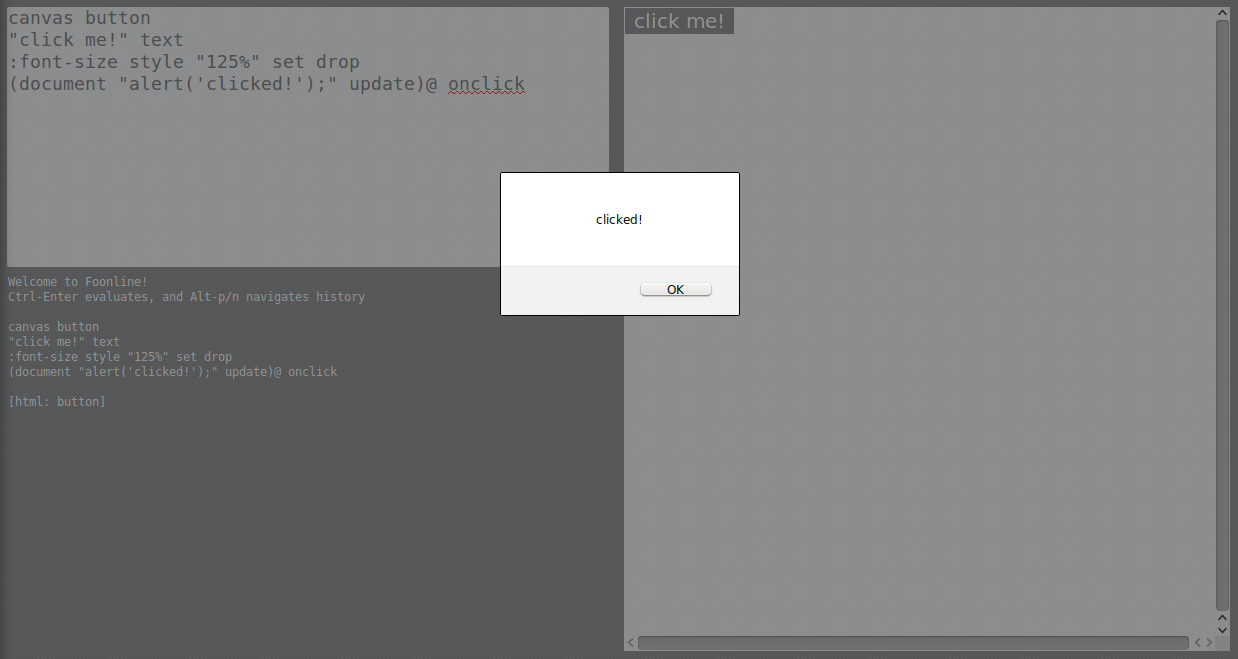
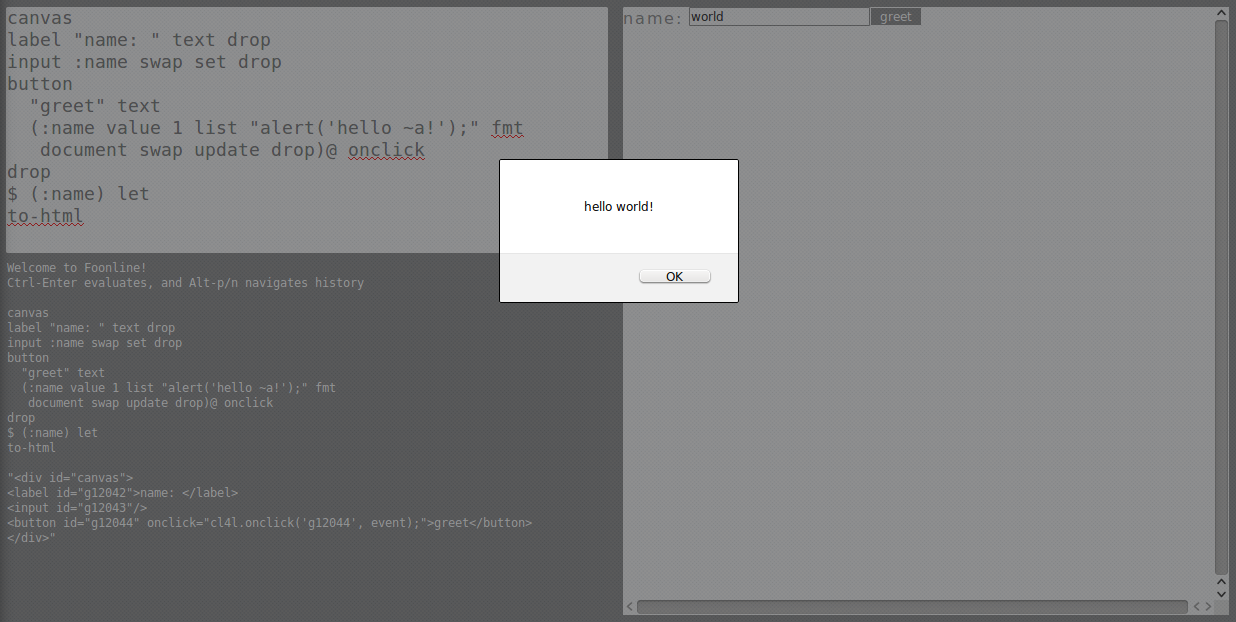
updated examples

diff --git a/www/foonline.css b/www/foonline.css
@@ -22,13 +22,14 @@ button {
     border-color: whitesmoke;
     border-radius: 0.1em;
     color: white;
+    vertical-align: bottom;
 }
 
 caption {
     font-size: 125%;
     letter-spacing: 0.1em;
     text-align: left;
-    text-color: gray;
+    color: gray;
     margin-bottom: 0.2em;
 }
 
@@ -37,7 +38,7 @@ h1 {
     border-color: lightgray;
     font-size: 200%;
     letter-spacing: 0.2em;
-    text-color: gray;
+    color: gray;
 }
 
 h2 {
@@ -45,7 +46,7 @@ h2 {
     border-color: lightgray;
     font-size: 175%;
     letter-spacing: 0.1em;
-    text-color: gray;
+    color: gray;
 }
 
 h3 {
@@ -53,7 +54,7 @@ h3 {
     border-color: lightgray;
     font-size: 150%;
     letter-spacing: 0.1em;
-    text-color: gray;
+    color: gray;
 }
 
 input {
@@ -61,6 +62,12 @@ input {
     border: 1px solid;
     border-color: gray;
     border-radius: 0.1em;    
+}
+
+label {
+    color: gray;
+    letter-spacing: 0.1em;
+    vertical-align: bottom;
 }
 
 th {

diff --git a/README.md b/README.md
@@ -48,10 +48,16 @@ Callbacks may be registered for DOM events, changes and updates are automaticall
 ![Events Example](https://github.com/codr4life/foonline/blob/master/example_events.png)
 
 ```
-canvas button 
-"click me!" text 
-:font-size style "125%" set drop
-(document "alert('clicked!');" update)@ onclick
+canvas
+label "name: " text drop
+input :name swap set
+button 
+  "greet" text 
+  (:name value 1 list "alert('hello ~a!');" fmt
+   document swap update drop)@ onclick
+drop
+$ (:name) let
+to-html
 ```
 
 ### word list
